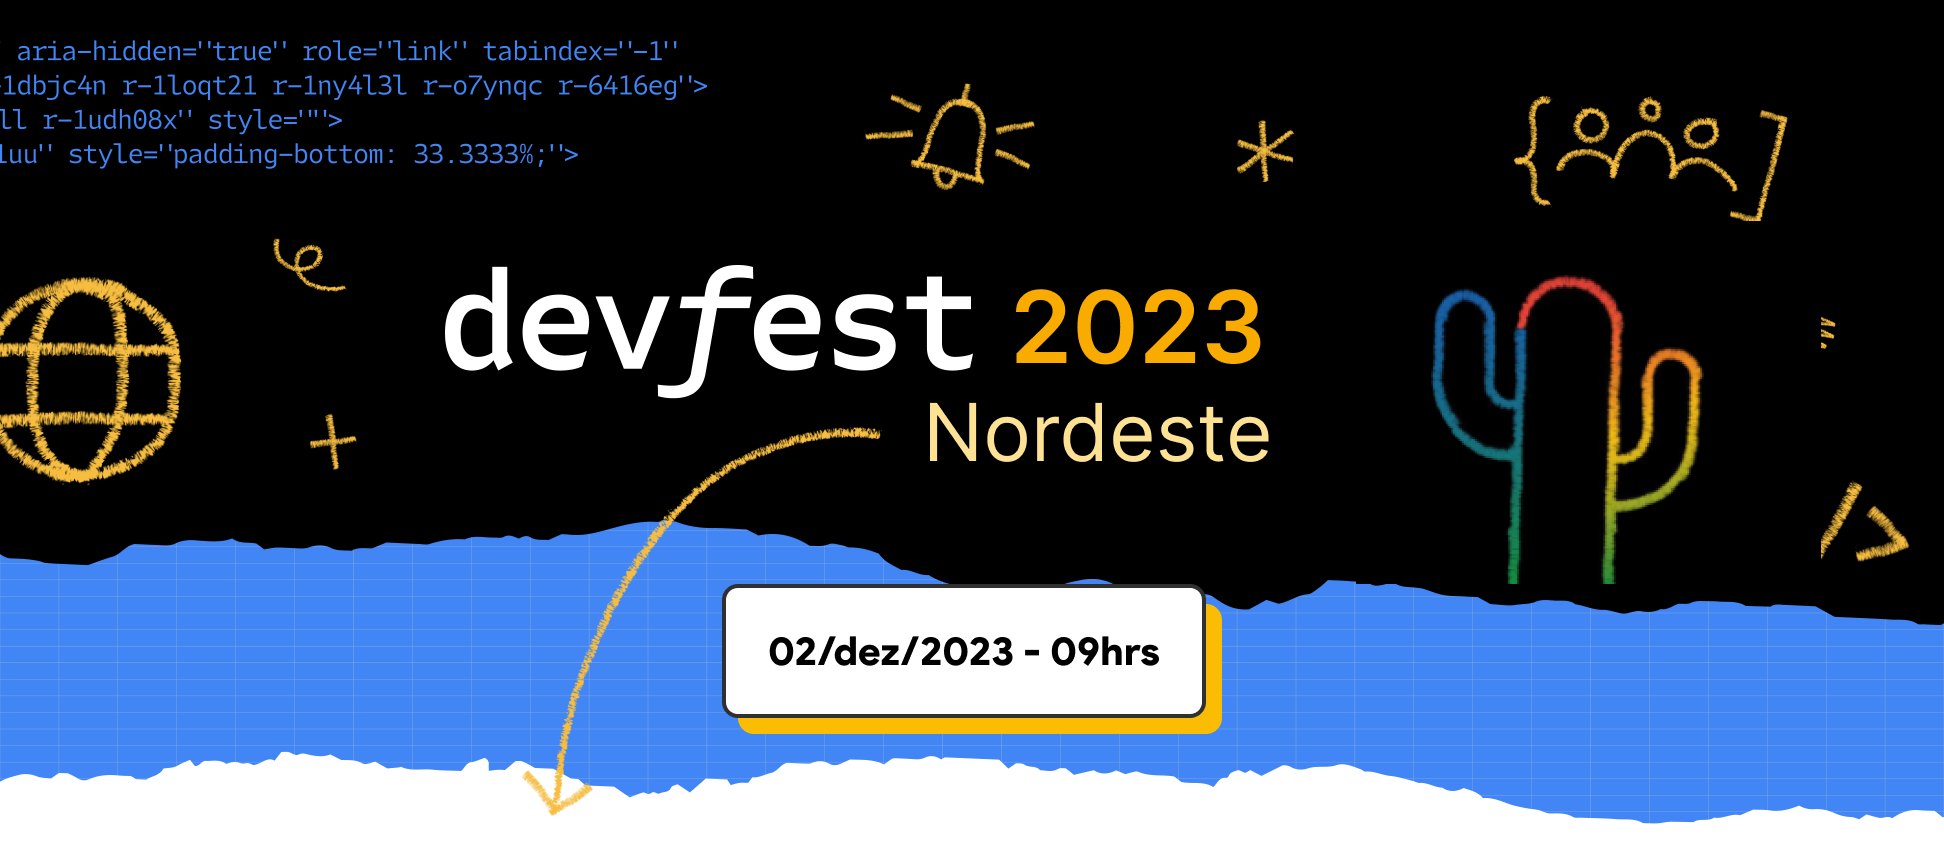
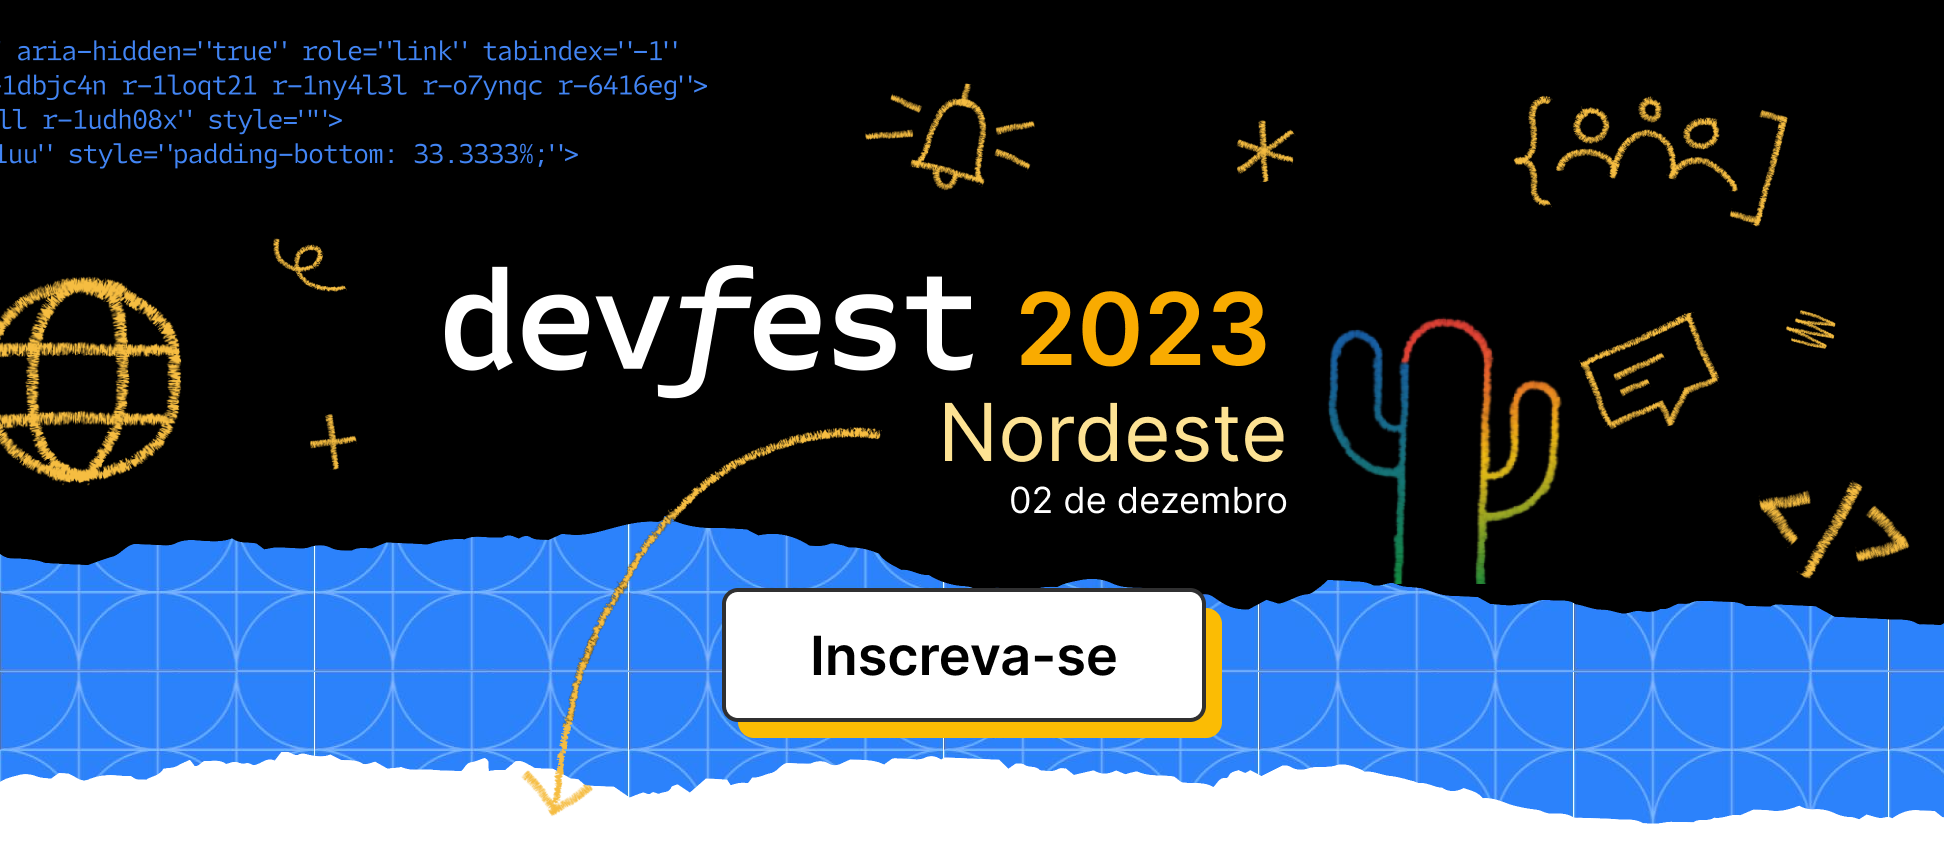
adicionando link de inscricoes

diff --git a/src/app/components/navbar/navbar.component.html b/src/app/components/navbar/navbar.component.html
@@ -18,9 +18,9 @@
           <li class="nav-item me-5">
             <a class="nav-link" href="#4">Parcerias</a>
           </li>
-          <!-- <li class="">
-            <button mat-raised-button class="primary_button">Inscreva-se</button>
-          </li> -->
+          <li class="">
+            <button mat-raised-button class="primary_button" (click)="inscrever()">Inscreva-se</button>
+          </li>
         </ul>
       </div>
     </div>

diff --git a/src/app/pages/header/header.component.html b/src/app/pages/header/header.component.html
@@ -1,3 +1,5 @@
 <div class="d-flex justify-content-center">
-    <img [src]="imagePath" class="image">
+    <a href="https://www.eventbrite.com.br/e/729800030537/" target="_blank">
+        <img [src]="imagePath" class="image">  
+    </a>
 </div>

diff --git a/src/app/components/navbar/navbar.component.ts b/src/app/components/navbar/navbar.component.ts
@@ -7,4 +7,7 @@ import { Component } from '@angular/core';
 })
 export class NavbarComponent {
 
+  inscrever(){
+    window.open("https://www.eventbrite.com.br/e/729800030537/", "_blank")
+  }
 }
